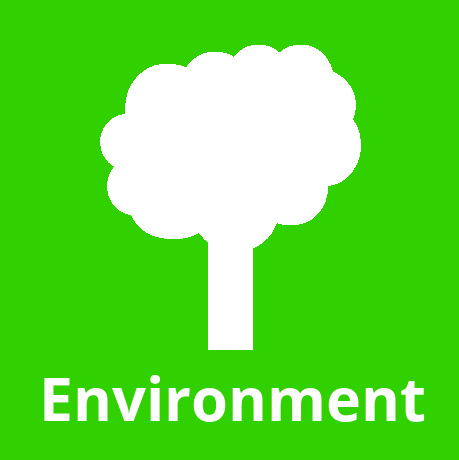
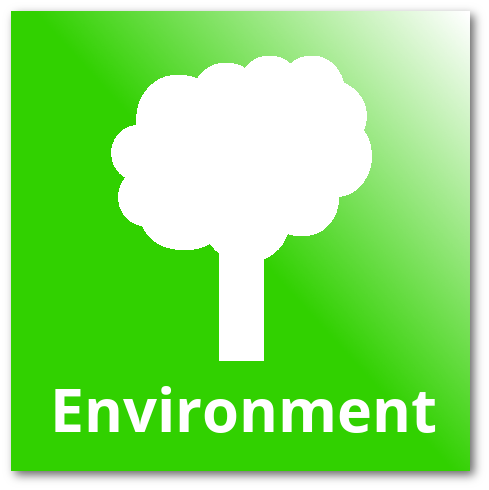
Images

diff --git a/main.css b/main.css
@@ -108,8 +108,7 @@ p {
     width: 230px;
     height: 230px;
     overflow: hidden;
-    box-shadow: 3px 3px 3px #999;
-	box-shadow: 5px 5px 20px #33D900;
+
     border-radius: 10px;
 }
 
